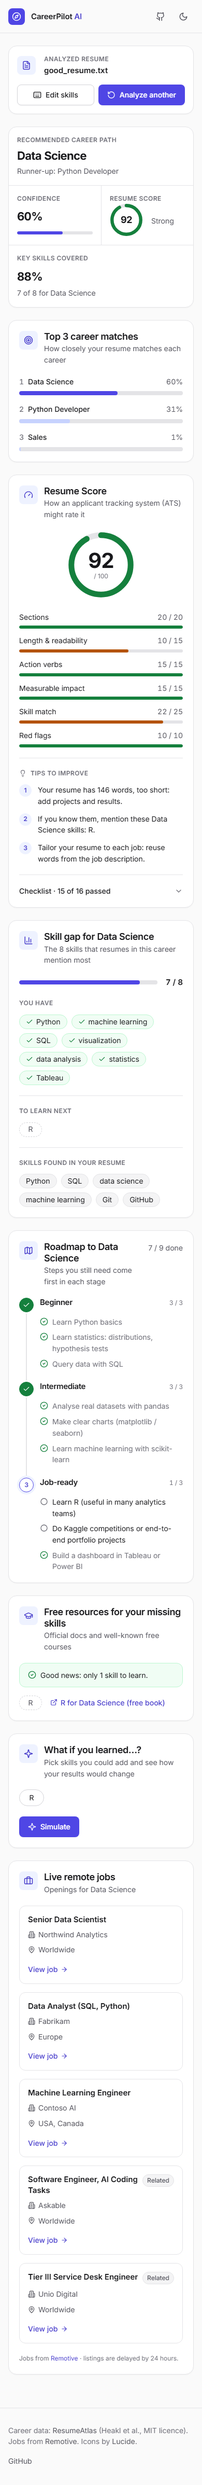
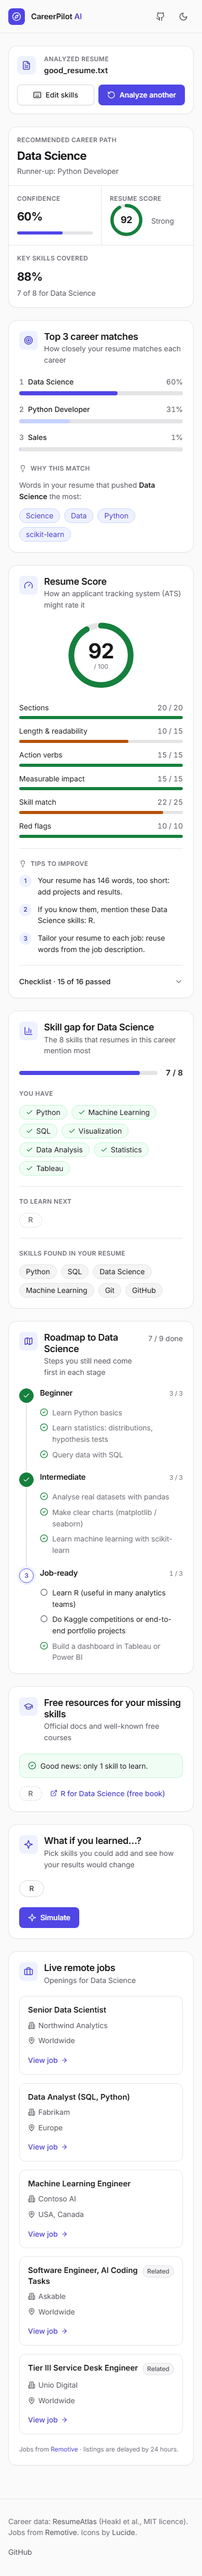
Add 'Why this match' (top words from model weights x TF-IDF) to the careers card; Title Case fallback for skill names

diff --git a/static/css/app.css b/static/css/app.css
@@ -327,6 +327,7 @@ button, input, textarea { font: inherit; color: inherit; }
 .chip-success { background: var(--success-soft); border-color: var(--success-border); }
 .chip-success .icon { color: var(--success); }
 .chip-missing { background: transparent; border-style: dashed; border-color: var(--border-strong); color: var(--text-muted); }
+.chip-accent { background: var(--accent-soft); border-color: var(--accent-border); color: var(--accent-text); }
 
 /* Badges */
 .badge {
@@ -679,6 +680,9 @@ button, input, textarea { font: inherit; color: inherit; }
 .career-name { font-weight: 500; }
 .career-rank { color: var(--text-subtle); font-variant-numeric: tabular-nums; margin-right: var(--space-2); }
 .career-percent { font-variant-numeric: tabular-nums; color: var(--text-muted); }
+.why-match { margin-top: var(--space-6); }
+.why-match-text { font-size: var(--text-sm); color: var(--text-muted); margin-bottom: var(--space-3); }
+.why-match-text strong { color: var(--text); font-weight: 600; }
 .career-row:not(:first-child) .bar::-webkit-progress-value { background: var(--accent-border); }
 .career-row:not(:first-child) .bar::-moz-progress-bar { background: var(--accent-border); }
 :root[data-theme="dark"] .career-row:not(:first-child) .bar::-webkit-progress-value { background: #4b4f9c; }

diff --git a/templates/partials/careers.html b/templates/partials/careers.html
@@ -18,4 +18,16 @@
       </li>
     {% endfor %}
   </ol>
+
+  {% if why_terms %}
+    {# The words that pushed the top career most (features/explain.py: TF-IDF value x model weight) #}
+    <div class="card-section why-match" data-why-match>
+      <p class="section-label">{{ icon("lightbulb", 14) }} Why this match</p>
+      <p class="why-match-text">Words in your {{ "resume" if source == "resume" else "skills" }} that pushed
+        <strong>{{ top_careers[0].label }}</strong> the most:</p>
+      <ul class="chips">
+        {% for term in why_terms %}<li class="chip chip-accent">{{ term|display_skill }}</li>{% endfor %}
+      </ul>
+    </div>
+  {% endif %}
 </article>

diff --git a/features/skills.py b/features/skills.py
@@ -108,13 +108,31 @@ SKILL_DISPLAY_NAMES = {
     "sap sd": "SAP SD", "alv": "ALV", "bapi": "BAPI", "pmo": "PMO", "crm": "CRM", "hris": "HRIS",
     "osha": "OSHA", "cpr": "CPR", "iep": "IEP", "brd": "BRD", "jira": "Jira", "agile": "Agile", "scrum": "Scrum",
     "selenium": "Selenium", "istqb": "ISTQB", "ase": "ASE", "arduino": "Arduino", "raspberry pi": "Raspberry Pi",
-    "qa/qc": "QA/QC", "llb": "LLB",
+    "qa/qc": "QA/QC", "llb": "LLB", "3d modeling": "3D Modeling", "ux": "UX", "ui": "UI", "sla": "SLA",
+    "kyc": "KYC", "aml": "AML", "ppc": "PPC", "kpi": "KPI", "ms project": "MS Project", "power bi": "Power BI",
+    "nec": "NEC", "bpo": "BPO", "hr": "HR", "it": "IT", "api": "API", "sdk": "SDK", "ai": "AI", "ml": "ML",
+    # Words the model sees without punctuation (see features/text_cleaning.py)
+    "scikitlearn": "scikit-learn", "nodejs": "Node.js", "aspnet": "ASP.NET", "cicd": "CI/CD", "reactjs": "React",
 }
+
+SMALL_WORDS = {"and", "or", "of", "for", "in", "on", "the", "a", "an", "to", "with"}
+
+
+def title_case(name):
+    """ "machine learning" -> "Machine Learning", "self-motivation" -> "Self-Motivation",
+    "health and fitness" -> "Health and Fitness" (small words stay lowercase). """
+    words = []
+    for i, word in enumerate(name.split()):
+        if i > 0 and word in SMALL_WORDS:
+            words.append(word)
+        else:
+            words.append("-".join(part[:1].upper() + part[1:] for part in word.split("-")))
+    return " ".join(words)
 
 
 def display_skill(skill):
-    """The name to show for a skill: "r" -> "R", "node.js" -> "Node.js"; other skills unchanged."""
-    return SKILL_DISPLAY_NAMES.get(skill, skill)
+    """The name to show for a skill: the mapping above ("r" -> "R", "c#" -> "C#"), else Title Case."""
+    return SKILL_DISPLAY_NAMES.get(skill, title_case(skill))
 
 
 def analyze_skill_gap(career, text):

diff --git a/features/explain.py b/features/explain.py
@@ -1,0 +1,32 @@
+"""
+"Why this match": which words in the text pushed the top prediction the most.
+
+The model is TF-IDF + a linear classifier (LinearSVC). For one career the classifier's
+score is a sum over words:   score = sum(tfidf_value[word] * weight[career][word]) + bias
+So each word's contribution is simply  tfidf_value * weight. The biggest positive
+contributions are the words that pushed the prediction towards that career the most.
+(The model works on single words, so "machine learning" shows up as "machine" and "learning".)
+"""
+
+
+def _linear_classifier(model):
+    # model = Pipeline(tfidf -> CalibratedClassifierCV(LinearSVC, ensemble=False)).
+    # With ensemble=False there is exactly one LinearSVC inside, trained on all the data.
+    calibrated = model.named_steps["clf"]
+    return calibrated.calibrated_classifiers_[0].estimator
+
+
+def top_contributing_terms(model, text, career, top_n=4):
+    """The top_n words in `text` that pushed `career` the most, strongest first."""
+    vectorizer = model.named_steps["tfidf"]
+    classifier = _linear_classifier(model)
+    class_index = list(classifier.classes_).index(career)
+
+    tfidf = vectorizer.transform([text])                      # sparse: only words in the text are non-zero
+    weights = classifier.coef_[class_index]
+    words = vectorizer.get_feature_names_out()
+
+    contributions = [(tfidf.data[k] * weights[j], words[j]) for k, j in enumerate(tfidf.indices)]
+    contributions = [(value, word) for value, word in contributions if value > 0 and len(word) > 1]
+    contributions.sort(reverse=True)
+    return [word for _, word in contributions[:top_n]]

diff --git a/app.py b/app.py
@@ -9,6 +9,7 @@ from pypdf import PdfReader
 
 from features.careers import display_name
 from features.courses import recommend_courses
+from features.explain import top_contributing_terms
 from features.jobs import fetch_job_listings
 from features.resume_score import score_resume
 from features.roadmap import build_roadmap
@@ -102,6 +103,7 @@ def home():
     skill_gap = None     # result of analyze_skill_gap for the top career
     resume_score = None  # result of score_resume (only for uploaded resumes)
     roadmap = None       # result of build_roadmap for the top career
+    why_terms = []       # words in the text that pushed the top career the most
     courses = []         # free resources for each missing skill
     simulator_data = None  # what the What-If Simulator needs to send back to /api/simulate
     error = ""
@@ -144,6 +146,7 @@ def home():
         if text_to_predict:
             top_careers = predict_top_careers(text_to_predict)
             skill_gap = analyze_skill_gap(top_careers[0]["career"], text_to_predict)
+            why_terms = top_contributing_terms(model, text_to_predict, top_careers[0]["career"])
             roadmap = build_roadmap(top_careers[0]["career"], text_to_predict)
             courses = recommend_courses(skill_gap["missing"])
             simulator_data = {"text": text_to_predict, "career": top_careers[0]["career"],
@@ -163,6 +166,7 @@ def home():
         skill_gap=skill_gap,
         resume_score=resume_score,
         roadmap=roadmap,
+        why_terms=why_terms,
         courses=courses,
         simulator_data=simulator_data,
         error=error,

diff --git a/tests/test_explain.py b/tests/test_explain.py
@@ -1,0 +1,31 @@
+import app
+from features.explain import top_contributing_terms
+
+
+def test_terms_come_from_the_text_and_push_the_career():
+    text = "Java developer: Spring, Hibernate, J2EE and Maven. Also likes cooking."
+    terms = top_contributing_terms(app.model, text, "Java Developer")
+    assert 3 <= len(terms) <= 4
+    assert "java" in terms
+    assert set(terms) <= {"java", "developer", "spring", "hibernate", "j2ee", "maven", "likes", "cooking"}
+    assert "cooking" not in terms[:2]                                    # unrelated words don't lead
+
+
+def test_different_careers_get_different_explanations():
+    text = "python pandas sql machine learning tableau react javascript css"
+    science = top_contributing_terms(app.model, text, "Data Science")
+    react = top_contributing_terms(app.model, text, "React Developer")
+    assert science != react
+    assert "react" in react or "javascript" in react
+
+
+def test_text_with_no_known_words_gives_no_terms():
+    assert top_contributing_terms(app.model, "zzqx blorf", "Data Science") == []
+
+
+def test_page_shows_why_this_match(monkeypatch):
+    monkeypatch.setattr(app, "fetch_job_listings", lambda title, limit=5: [])
+    html = app.app.test_client().post("/", data={"input_text": "java spring hibernate j2ee"}).get_data(as_text=True)
+    careers = html.split('data-card="careers"')[1].split("</article>")[0]
+    assert "Why this match" in careers and "data-why-match" in careers
+    assert '<li class="chip chip-accent">Java</li>' in careers            # shown with display names

diff --git a/tests/test_skills.py b/tests/test_skills.py
@@ -67,8 +67,24 @@ def test_no_skills_returns_empty():
 
 def test_skill_display_names():
     from features.skills import display_skill
-    assert [display_skill(s) for s in ["r", "c", "c#", "c++", "node.js", "asp.net", "sql", "machine learning"]] == \
-        ["R", "C", "C#", "C++", "Node.js", "ASP.NET", "SQL", "machine learning"]
+    assert [display_skill(s) for s in ["r", "c", "c#", "c++", "node.js", "asp.net", "sql"]] == \
+        ["R", "C", "C#", "C++", "Node.js", "ASP.NET", "SQL"]
+
+
+def test_title_case_fallback_for_other_skills():
+    from features.skills import display_skill
+    assert display_skill("machine learning") == "Machine Learning"
+    assert display_skill("data science") == "Data Science"
+    assert display_skill("self-motivation") == "Self-Motivation"
+    assert display_skill("health and fitness") == "Health and Fitness"   # small words stay lowercase
+    assert display_skill("sql server") == "SQL Server"                   # the mapping wins over Title Case
+
+
+def test_every_found_skill_is_properly_cased():
+    from features.skills import KNOWN_SKILLS, display_skill
+    for skill in KNOWN_SKILLS:
+        shown = display_skill(skill)
+        assert shown[0].isupper() or not shown[0].isalpha(), (skill, shown)
 
 
 def test_search_links_use_display_names():

diff --git a/tests/test_courses.py b/tests/test_courses.py
@@ -14,7 +14,7 @@ def test_known_skill_gets_real_resources():
 def test_unknown_skill_gets_search_link():
     result = recommend_courses(["underwater basket weaving"])[0]
     assert result["resources"][0]["is_search"]
-    assert "youtube.com/results?search_query=underwater+basket+weaving" in result["resources"][0]["url"]
+    assert "youtube.com/results?search_query=underwater+basket+weaving" in result["resources"][0]["url"].lower()
 
 
 def test_order_is_kept():
